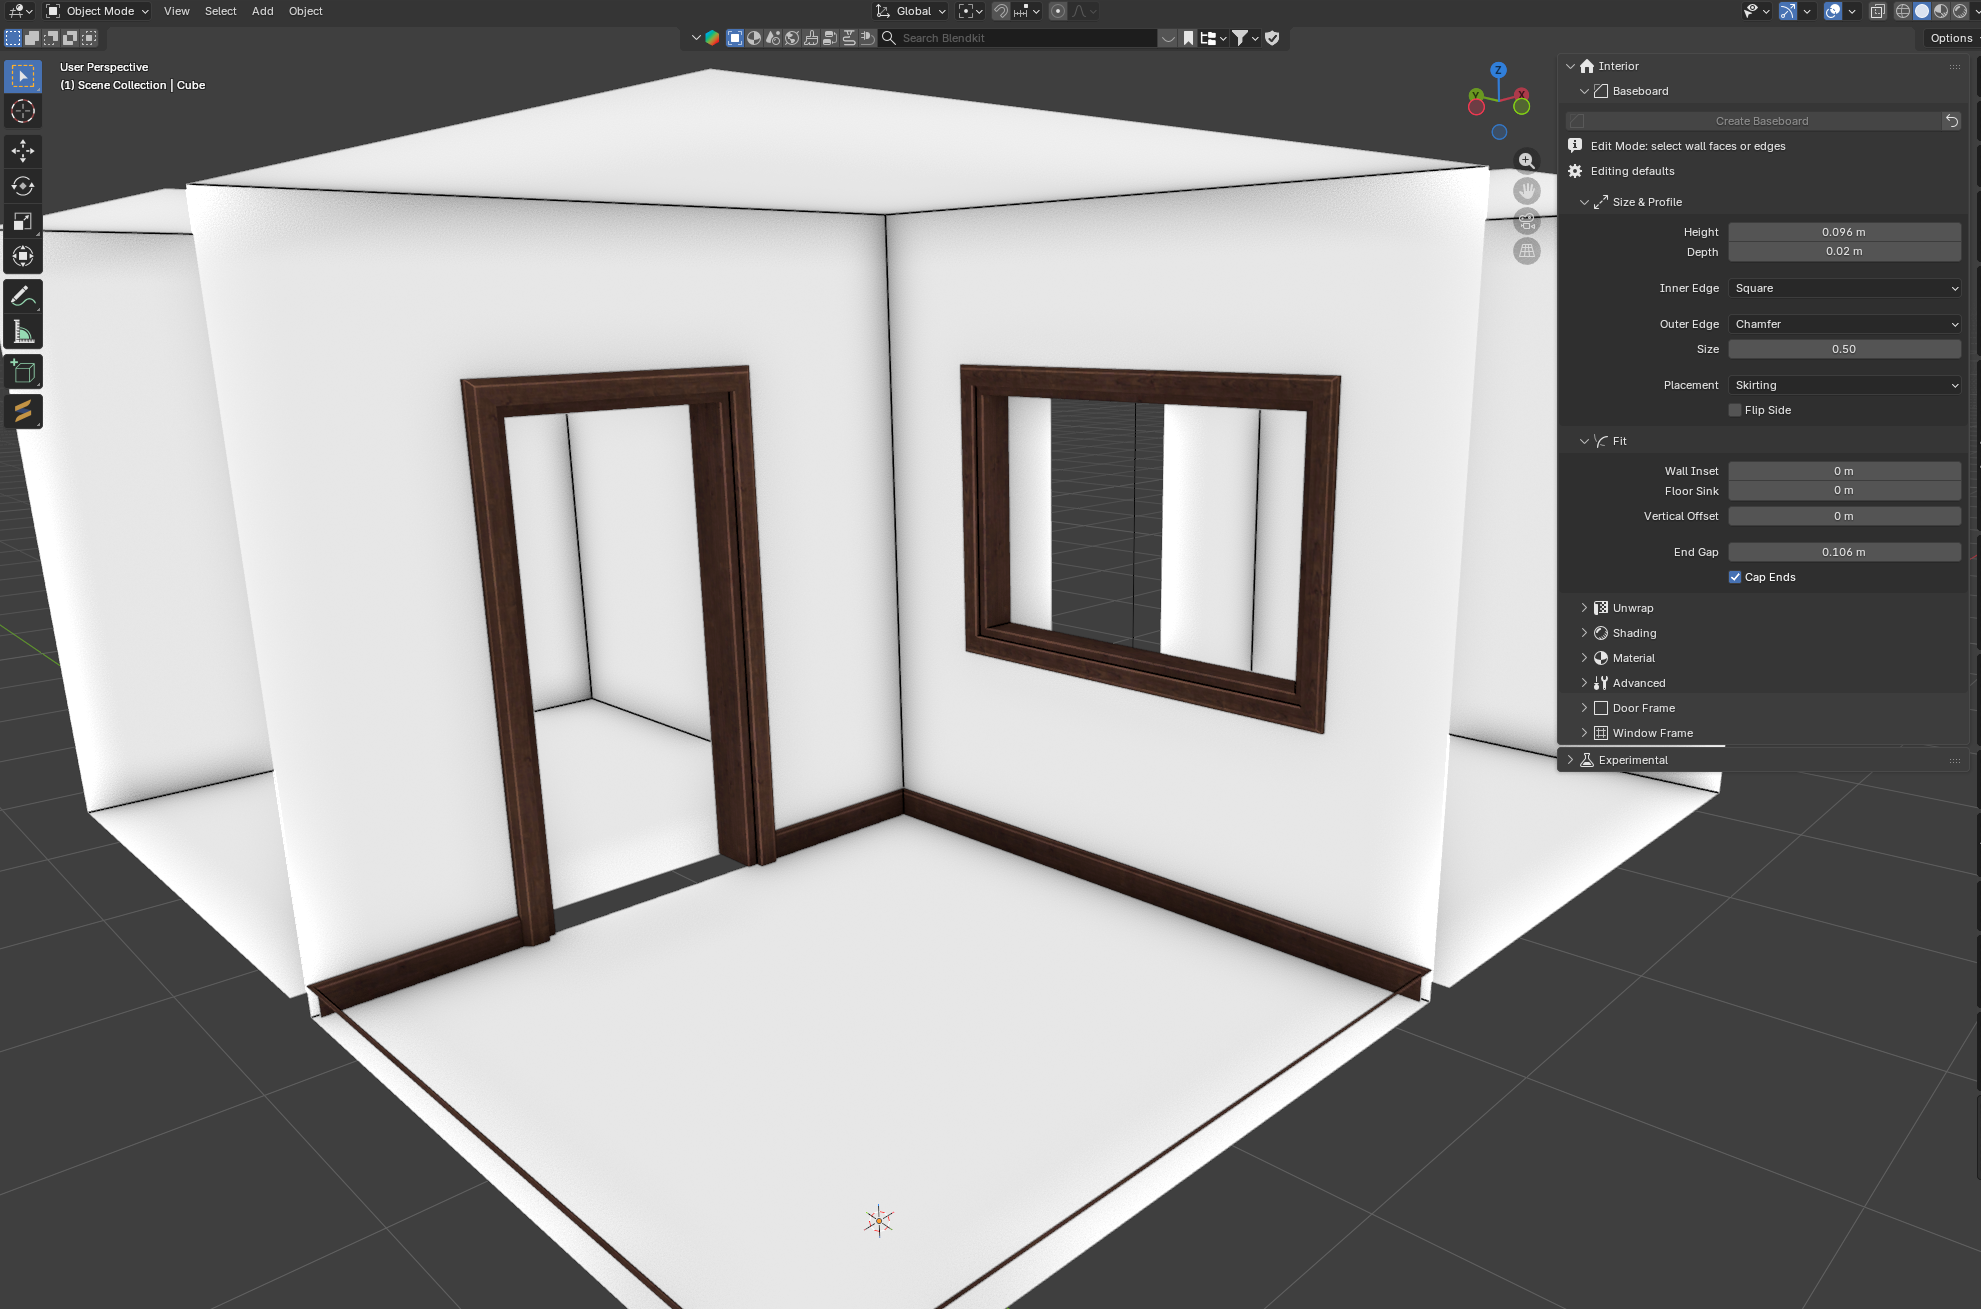
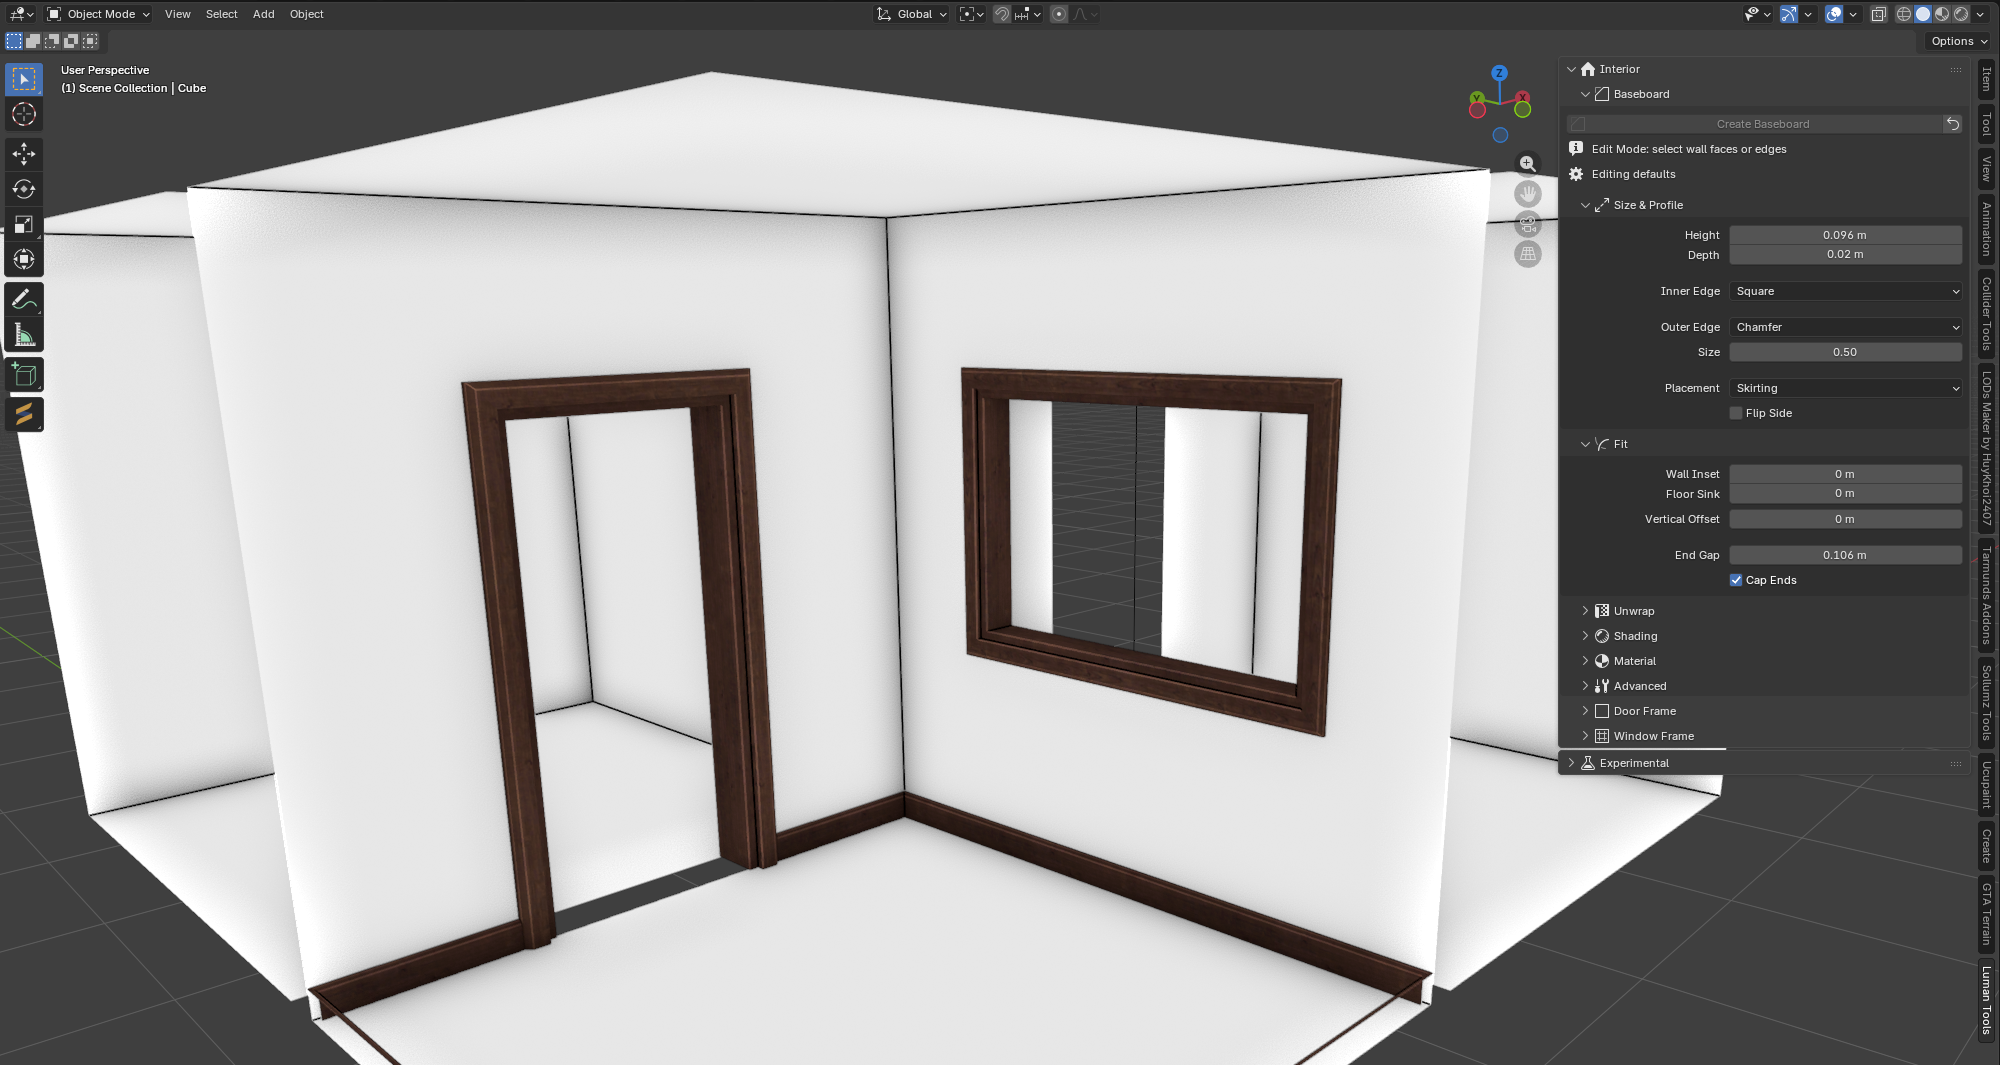
Trim README to the tools and install, new preview

diff --git a/README.md b/README.md
@@ -2,7 +2,7 @@
 
 Blender add-on that builds interior trim for **GTA V MLO interiors**: baseboards
 (skirting / cornice), door casings and window casings — mitered, unwrapped and
-already wearing a Sollumz `normal_spec.sps` material.
+textured.
 
 Select the walls, press one button, get an export-ready prop.
 
@@ -18,34 +18,7 @@ Select the walls, press one button, get an export-ready prop.
 | **Door Frame** | the opening's outline on both wall faces (6 edges) | casing swept outward, top corners mitered 45° |
 | **Window Frame** | the outline on one face (4 edges) | casing on this side; **Mirror** adds the far half, wall thickness read off the mesh |
 
-## Why it exports clean
-
-- **Correct miters by construction** — inside, outside, any angle. No booleans.
-- **Continuous geometry** — cross-sections share vertices, so no doubles and no shading seam at a bend.
-- **UVs built, not unwrapped** — arc length in metres, so the grain never restarts or rotates at a corner and texel density is identical everywhere.
-- **Game-mesh hygiene** — bottom and back faces off by default, End Gap to clear a door casing, Wall Inset / Floor Sink to kill hairline gaps, contact shading baked into `Color 1`.
-- **Live** — the object keeps its source, selection and settings; drag Height/Depth and it rebuilds in place. The source mesh is never touched.
-
-## Profiles
-
-Inner and outer edge shaped independently: `Square` · `Chamfer` · `Bullnose` ·
-`Cove` · `Ogee` · `Stepped` · `Custom` (own point list, in fractions of
-Depth/Height so it survives the size sliders).
-
-## Sollumz
-
-Builds `normal_spec.sps` from diffuse / `_n` / `_s` maps, writing `UVMap 0` and
-`Color 1` as the shader expects. Sollumz is detected at runtime and never
-modified. Without it everything still works — the material falls back to a
-Principled BSDF wired the same way.
-
 ## Install
 
 Download as ZIP → Blender **Edit → Preferences → Add-ons → Install from Disk** →
-enable **Luman Tools**. Requires Blender 4.2+. Sollumz optional but recommended.
-
-## License
-
-GPL-3.0-or-later. The bundled `.dds` wood maps are GTA V textures included as a
-working default and belong to Rockstar Games — point **Texture Folder** at your
-own maps for anything you distribute.
+enable **Luman Tools**. Requires Blender 4.2 or newer.
